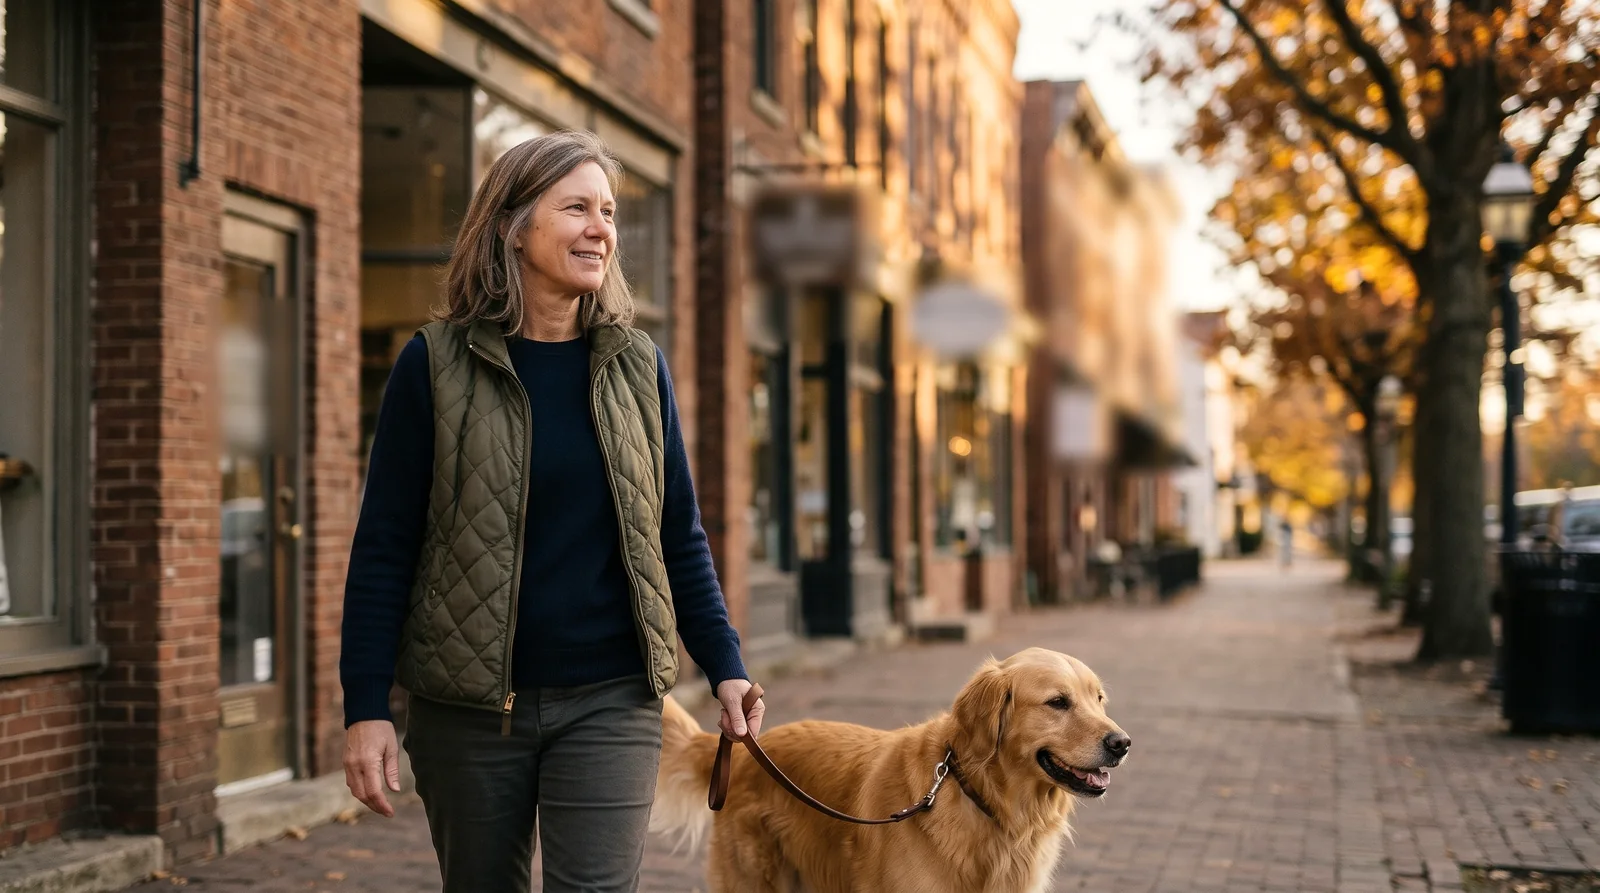
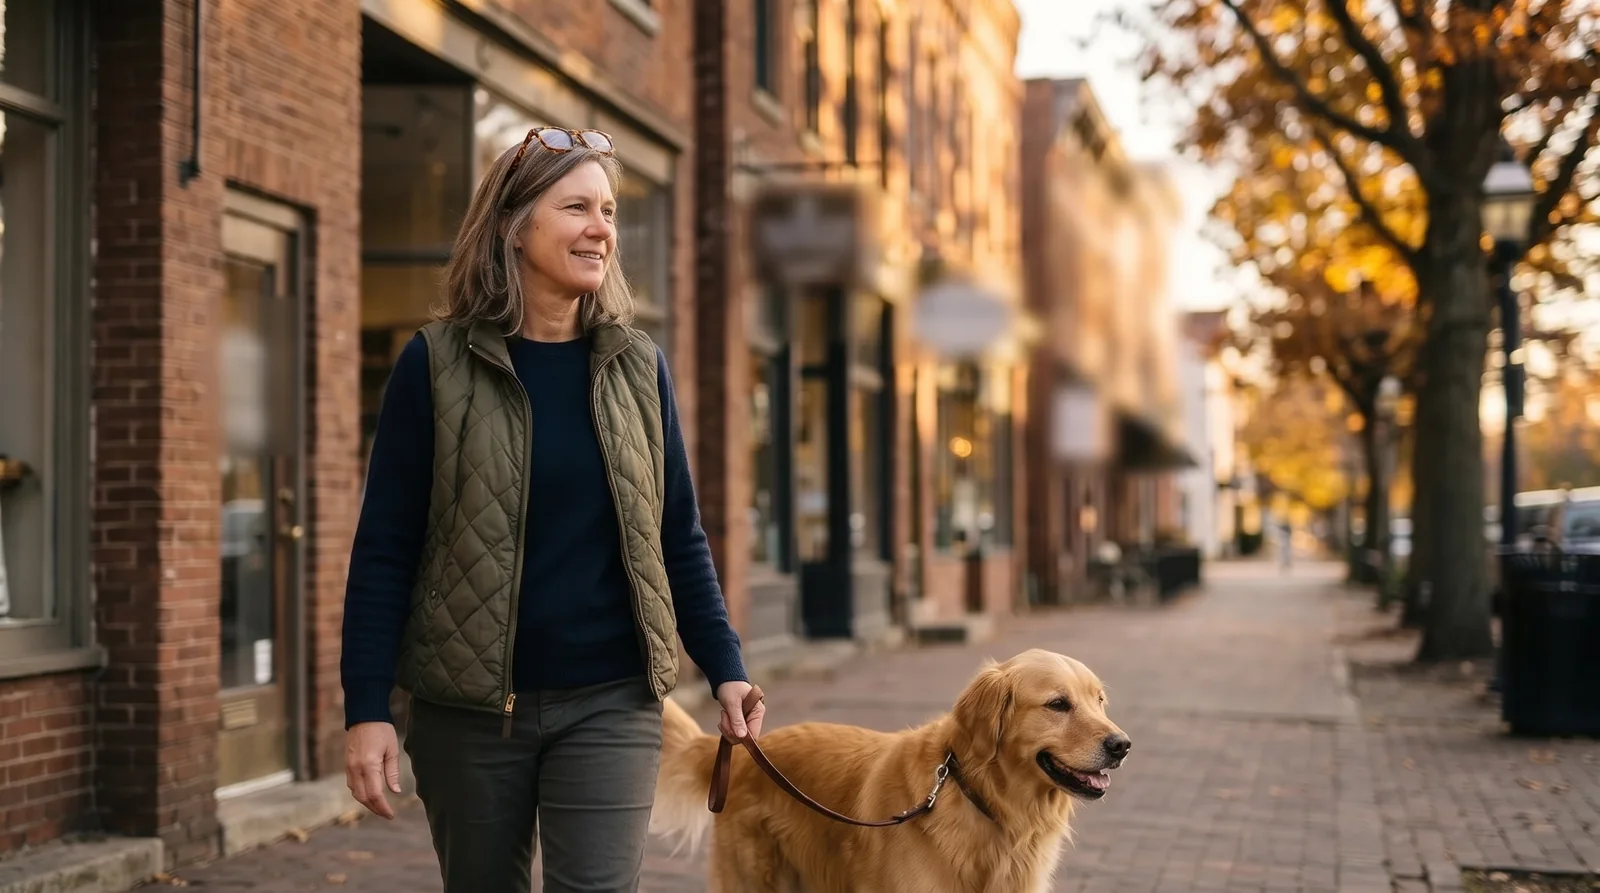
photos: usps-shipping-increase-january-2027 recheck fixes

diff --git a/blog-pipeline/photos-completed/usps-shipping-increase-january-2027.md b/blog-pipeline/photos-completed/usps-shipping-increase-january-2027.md
@@ -36,3 +36,6 @@ note: "Home office with linen curtains, woman in her mid fifties in a navy sweat
 - image_url: https://scan.ismyhometoxic.com/blog-images/uspsshippin-freedom-v1.webp
 - placement: final image before the closing CTA
 - completed: 2026-11-19T14:23:00
+
+## Recheck (Photo Claude) 2026-11-20
+Recheck: Reading glasses on her head now match the hero.
